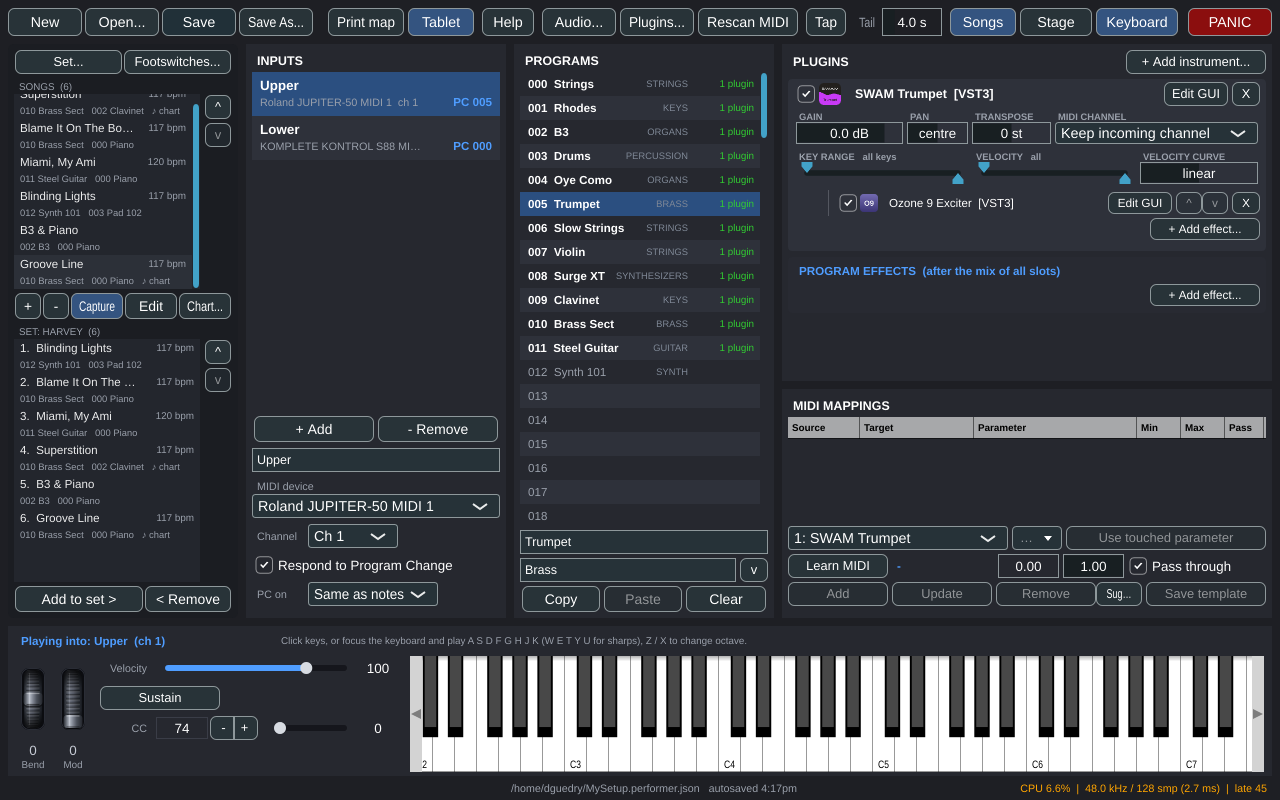
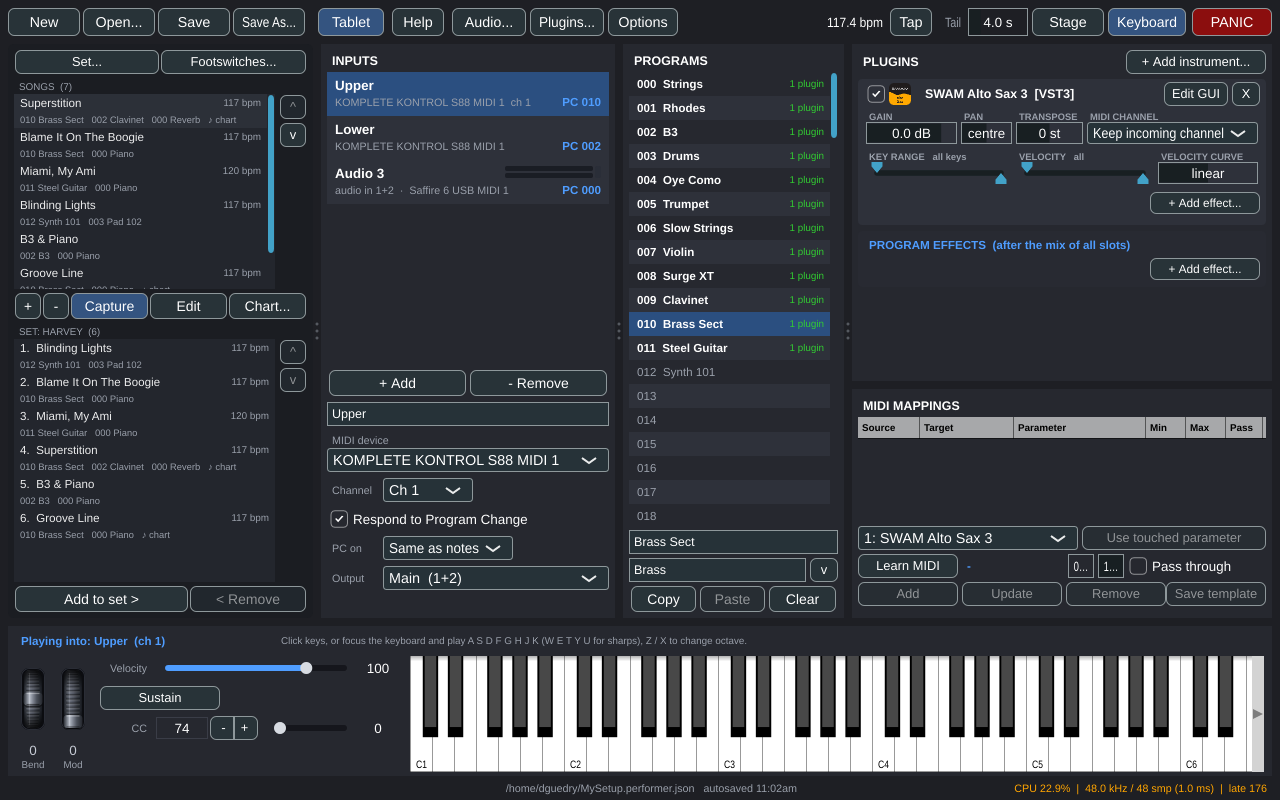
README: a current screenshot of the main window

diff --git a/README.md b/README.md
@@ -10,7 +10,7 @@ with every knob, drawbar and menu live under your finger. Pull a drawbar on the
 tablet and the organ on stage moves.
 
 <p align="center">
-  <img src="docs/images/stagerig.png" alt="StageRig: songs with their tempos and chart markers, a set list, two keyboards as inputs, a program list grouped by kind, a SWAM Trumpet loaded with an exciter effect and its key and velocity ranges, and the on-screen keyboard with pitch and mod wheels" width="900">
+  <img src="docs/images/stagerig.png" alt="StageRig: songs and a set list with tempos and chart markers, two keyboards and an audio input with its level meter, a program list grouped by kind, a SWAM Alto Sax with its key and velocity ranges, and the on-screen keyboard with pitch and mod wheels" width="900">
 </p>
 
 StageRig exists because the live hosts keyboard players rely on -- MainStage,
